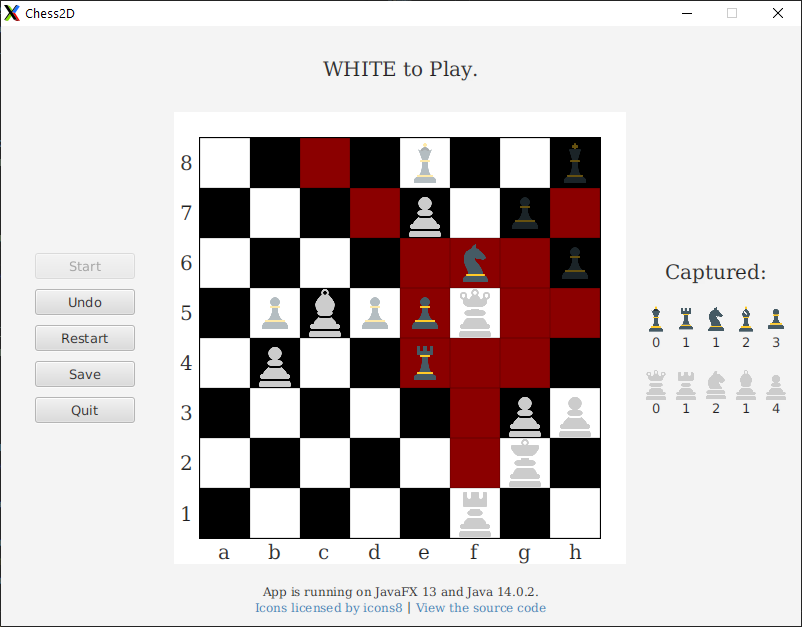
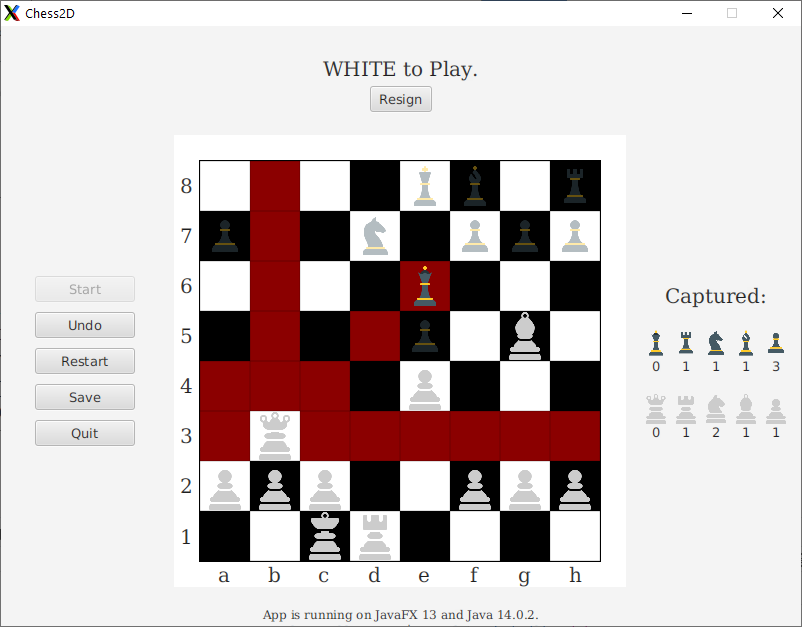
start implementation of logs parsing and redoing
- UI changes
- todo: implement different button behavior when in READ, and parse logs
differently

diff --git a/src/main/java/chess/App.java b/src/main/java/chess/App.java
@@ -3,8 +3,10 @@ package chess;
 import javafx.application.Application;
 import javafx.application.Platform;
 
-import javafx.scene.Scene;
 import javafx.stage.Stage;
+import javafx.stage.FileChooser;
+
+import javafx.scene.Scene;
 import javafx.scene.control.Label;
 import javafx.scene.layout.BorderPane;
 import javafx.scene.layout.TilePane;
@@ -18,6 +20,8 @@ import javafx.scene.image.*;
 
 import javafx.scene.control.Hyperlink;
 import javafx.scene.control.Button;
+import javafx.scene.control.RadioButton;
+import javafx.scene.control.ToggleGroup;
 import javafx.scene.control.Alert;
 import javafx.scene.control.ButtonType;
 
@@ -33,6 +37,9 @@ import javafx.scene.paint.Color;
 import java.util.ArrayList;
 import java.util.Optional;
 
+// I/O
+import java.io.File;
+
 /**
  * JavaFX App
  */
@@ -47,11 +54,13 @@ public class App extends Application {
     final Font titleFont = Font.font("Serif", FontWeight.NORMAL, 20);
     final String idleStyle = "-fx-border-color: transparent; -fx-background-color: transparent";
     final String hoverStyle = "-fx-border-color: red; -fx-background-color: transparent";
+    final int buttonWidth = small * numCanCapture - 2 * tiny;
 
     ArrayList<Position> highlightedPos = new ArrayList<Position>();
 
     Game game;
     Scene scene;
+    boolean live; // false = Read game from logs
 
     private void makeResign() {
         game.indicateResign();
@@ -225,10 +234,10 @@ public class App extends Application {
                         + System.getProperty("user.dir") + "/logs.txt?";
                 header = "Stalemate!";
             }
-            
+
             var resignBtn = (Button) scene.lookup("#resignBtn");
             resignBtn.setDisable(true); // cannot resign after game has ended
-            
+
             var alert = new Alert(Alert.AlertType.CONFIRMATION, text);
             alert.setHeaderText(header);
             Optional<ButtonType> result = alert.showAndWait();
@@ -500,12 +509,21 @@ public class App extends Application {
         }
     }
 
-    private void initUI(Stage stage, boolean shouldStartGame) {
+    private boolean readFile(Stage stage) {
+        var fc = new FileChooser();
+        fc.setTitle("Choose Log File");
+        fc.getExtensionFilters().add(new FileChooser.ExtensionFilter("Text Files", "*.txt"));
+        File f = fc.showOpenDialog(stage);
+        return game.readFile(f);
+    }
 
+    private void initUI(Stage stage, boolean shouldStartGame, boolean l) {
+        System.out.println(l ? "LIVE Mode" : "READ Mode");
         game = new Game();
         Thread.setDefaultUncaughtExceptionHandler((t, e) -> Platform.runLater(() -> showErrorDialog(t, e)));
         // https://stackoverflow.com/questions/25145956/how-can-i-create-a-default-exception-handler-that-uses-javafx
 
+        live = l;
         // bottom
         var javaVersion = System.getProperty("java.version");
         var javafxVersion = System.getProperty("javafx.version");
@@ -556,30 +574,63 @@ public class App extends Application {
         Toolbar.setAlignment(Pos.BOTTOM_CENTER);
 
         // left: gameplay buttons
-        var startBtn = new Button("Start");
-        startBtn.setOnAction(e -> {
-            var t = (Label) Toolbar.lookup("#titleText");
-            t.setText(game.turn + " to play.");
-            startBtn.setDisable(true);
-            game.getAllMoves();
-            activatePieces(game.turn);
-            title.requestFocus();
-        });
-        startBtn.setMaxWidth(small * numCanCapture - 2 * tiny);
+        var g = new ToggleGroup();
+        var tLive = new RadioButton("LIVE");
+        tLive.setToggleGroup(g);
+        tLive.setSelected(live);
+        tLive.setMaxWidth(0.5 * small * numCanCapture);
+        tLive.setUserData(true);
 
-        var undoBtn = new Button("Undo");
+        var tRead = new RadioButton("READ");
+        tRead.setToggleGroup(g);
+        tRead.setSelected(!live);
+        tRead.setMaxWidth(0.5 * small * numCanCapture);
+        tRead.setUserData(false);
+
+        g.selectedToggleProperty().addListener((ov, o, n) -> {
+            initUI(stage, false, (boolean) n.getUserData());
+        });
+        var toggles = new HBox(5, tLive, tRead);
+        toggles.setAlignment(Pos.CENTER);
+
+        var startBtn = new Button("Start");
+        if (live) {
+            startBtn.setOnAction(e -> {
+                var t = (Label) Toolbar.lookup("#titleText");
+                t.setText(game.turn + "'s Turn");
+                startBtn.setDisable(true);
+                game.getAllMoves();
+                activatePieces(game.turn);
+                title.requestFocus();
+            });
+        } else {
+            startBtn.setOnAction(e -> {
+                var t = (Label) Toolbar.lookup("#titleText");
+                t.setText(game.turn + "'s Turn");
+                if (readFile(stage)) { // if successful
+                    startBtn.setDisable(true);
+                    // game.getAllMoves(); # do not allow manual moves!
+                    // activatePieces(game.turn);
+                    title.requestFocus();
+
+                } // else allow user to select a new file
+            });
+        }
+        startBtn.setMaxWidth(buttonWidth);
+
+        var undoBtn = new Button(live ? "Undo" : "Prev");
         undoBtn.setId("undoBtn");
         undoBtn.setOnAction(e -> makeUndo());
         undoBtn.setDisable(true);
-        undoBtn.setMaxWidth(small * numCanCapture - 2 * tiny);
+        undoBtn.setMaxWidth(buttonWidth);
 
         var restartBtn = new Button("Restart");
         restartBtn.setId("restartBtn");
         restartBtn.setOnAction(e -> {
-            initUI(stage, true);
+            initUI(stage, true, live);
         });
         restartBtn.setDisable(true);
-        restartBtn.setMaxWidth(small * numCanCapture - 2 * tiny);
+        restartBtn.setMaxWidth(buttonWidth);
 
         var saveBtn = new Button("Save");
         saveBtn.setOnAction(e -> {
@@ -592,7 +643,13 @@ public class App extends Application {
                 game.saveLogs();
             }
         });
-        saveBtn.setMaxWidth(small * numCanCapture - 2 * tiny);
+        saveBtn.setMaxWidth(buttonWidth);
+
+        var redoBtn = new Button(live ? "Redo" : "Next");
+        redoBtn.setOnAction(e -> {
+            System.out.println("To be Implemented");
+        });
+        redoBtn.setMaxWidth(buttonWidth);
 
         var quitBtn = new Button("Quit");
         quitBtn.setOnAction(e -> {
@@ -604,9 +661,9 @@ public class App extends Application {
                 Platform.exit();
             }
         });
-        quitBtn.setMaxWidth(small * numCanCapture - 2 * tiny);
+        quitBtn.setMaxWidth(buttonWidth);
 
-        VBox ctrls = new VBox(10, startBtn, undoBtn, restartBtn, saveBtn, quitBtn);
+        VBox ctrls = new VBox(10, toggles, startBtn, undoBtn, redoBtn, restartBtn, saveBtn, quitBtn);
         ctrls.setPadding(new Insets(10));
         ctrls.setMinWidth(small * numCanCapture + 18); // best effort at aligning
         ctrls.setAlignment(Pos.CENTER);
@@ -690,7 +747,7 @@ public class App extends Application {
 
     @Override
     public void start(Stage stage) {
-        initUI(stage, false);
+        initUI(stage, false, true);
     }
 
     public static void main(String[] args) {

diff --git a/src/main/java/chess/Game.java b/src/main/java/chess/Game.java
@@ -1,8 +1,12 @@
 package chess;
 
+import java.io.File;
 import java.io.BufferedWriter;
 import java.io.FileWriter;
+import java.io.BufferedReader;
+import java.io.FileReader;
 import java.io.IOException;
+
 import java.util.ArrayList;
 import chess.pieces.*;
 
@@ -13,7 +17,9 @@ enum Turn {
 class Game {
     Turn turn;
     int turnNo;
-    private ArrayList<String> logs;
+    private ArrayList<String> logs; // what user does in this session
+    private ArrayList<String> refLogs; // what is read in
+    private boolean logsVerbose; // TODO: parse logs differently
 
     private ArrayList<Piece> whitePieces;
     private ArrayList<Piece> blackPieces;
@@ -192,11 +198,47 @@ class Game {
 
     void saveLogs() {
         try (var log = new BufferedWriter(new FileWriter("logs.txt"))) {
+            log.write("verbose\n");
             for (var line : logs) {
                 log.write(line);
             }
         } catch (IOException e) {
             System.out.println(e);
+        }
+    }
+
+    boolean readFile(File f) {
+        try (var logReader = new BufferedReader(new FileReader(f))) {
+            System.out.println("File Reading #Todo");
+            String firstLine = logReader.readLine();
+            if (firstLine == null) {
+                // throw new IllegalArgumentException("Empty log file");
+                System.out.println("Empty log file. Please retry.");
+                return false;
+            }
+            logs = new ArrayList<String>();
+            String log_string;
+            if (firstLine.equals("verbose")) {
+                logsVerbose = true;
+                log_string = logReader.readLine();
+                if (log_string == null) {
+                    System.out.println("No log contents.");
+                    return false;
+                }
+            } else {
+                logsVerbose = false;
+                log_string = firstLine;
+            }
+
+            refLogs = new ArrayList<String>();
+            for (var str : log_string.split(" ")) {
+                refLogs.add(str);
+                System.out.println(str);
+            }
+            return true;
+        } catch (IOException e) {
+            System.out.println(e);
+            return false;
         }
     }
 

diff --git a/README.md b/README.md
@@ -1,15 +1,17 @@
 # 2D Chess App
+
 Built with JavaFX and Maven over Winter Break 2020-21.
 
 ## Progress
+
 - [x] Board Layout
 - [x] Graphics for Chess Pieces
 - [x] Highlighting Possible Moves
 - [x] Piece Logic
 - [x] Check for Checks
-- [x] Captures 
+- [x] Captures
 - [x] Promoting
-- [x] Castling 
+- [x] Castling
 - [x] En Passant
 - [x] Algebraic Notation and Outputing Logs
 - [x] Restarts
@@ -17,26 +19,29 @@ Built with JavaFX and Maven over Winter Break 2020-21.
 - [x] Resigning
 
 ## Possible Extensions
-- Playing with other humans over sockets (``java.net``). In this remote multiplayer mode (which requires a new UI), the player wishing to be White creates a client ``Socket`` and Black starts a ``ServerSocket``. Each process will have two threads, one playing moves locally and the other relaying opponent moves.
-- Replaying games from logs. Need to implement move-parsing and create a new UI; some fast-forwarding functionality would be desirable here.
-- Installing a customizable timer. The countdown display can be controlled with a property binding (e.g. ``Label.textProperty().bind(TIMELEFT)``, thanks to ``javafx.beans.property.IntegerProperty``). The numerical value can be updated with a ``Timeline`` and ``KeyFrame`` from ``javafx.animation``.
+
+- Playing with other humans over sockets (`java.net`). In this remote multiplayer mode (which requires a new UI), the player wishing to be White creates a client `Socket` and Black starts a `ServerSocket`. Each process will have two threads, one playing moves locally and the other relaying opponent moves.
+- ~~Replaying games from logs. Need to implement move-parsing and create a new UI; some fast-forwarding functionality would be desirable here.~~ (<i>In Progress Summer 2021! </i>)
+- Installing a customizable timer. The countdown display can be controlled with a property binding (e.g. `Label.textProperty().bind(TIMELEFT)`, thanks to `javafx.beans.property.IntegerProperty`). The numerical value can be updated with a `Timeline` and `KeyFrame` from `javafx.animation`.
 
 ## Usage
-After cloning the repository, ensure that ``JDK``, ``JRE``, and Maven are available (there's no need to explicitly install JavaFX). Then run the following command to test the app locally:
 
-``mvn clean javafx:run``
+After cloning the repository, ensure that `JDK`, `JRE`, and Maven are available (there's no need to explicitly install JavaFX). Then run the following command to test the app locally:
 
-To build a runtime image, run the above command and then ``mvn javafx:jlink``. Run the executable image with ``target/image/bin/java -m kxiao1/chess.App`` (the ``image`` folder is portable).
+`mvn clean javafx:run`
 
-It is possible to build a ``.jar`` package with ``mvn package``. However, running it using the command ``java`` requires the [JavaFX runtime](https://gluonhq.com/products/javafx/) to be downloaded and made known to the JRE. This is because JDK 11+ removed built-in support for JavaFX. See https://openjfx.io/openjfx-docs/#install-javafx for possible solutions (this has not been tested).
+To build a runtime image, run the above command and then `mvn javafx:jlink`. Run the executable image with `target/image/bin/java -m kxiao1/chess.App` (the `image` folder is portable).
+
+It is possible to build a `.jar` package with `mvn package`. However, running it using the command `java` requires the [JavaFX runtime](https://gluonhq.com/products/javafx/) to be downloaded and made known to the JRE. This is because JDK 11+ removed built-in support for JavaFX. See https://openjfx.io/openjfx-docs/#install-javafx for possible solutions (this has not been tested).
 
 ## Gameplay
+
 - Click a piece to see its legal moves highlighted, then click one of the highlighted squares to move it.
-- To castle, move the King and not the Rook. 
+- To castle, move the King and not the Rook.
 - En Passant captures are automatically performed and promotions are always to Queens.
 - Undo's and restarts are permitted starting from the first Black move.
 - The outputed logs follow Portable Game Notation (PGN) but are intentionally verbose: the starting position is always specified. This prevents any ambiguity from the outset.
 
 ## Known issues
-- Linux users: To open the URL for the source code, make sure ``xdg-open`` is installed (e.g. ``sudo apt install xdg-utils``).
 
+- Linux users: To open the URL for the source code, make sure `xdg-open` is installed (e.g. `sudo apt install xdg-utils`).
